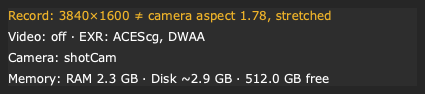
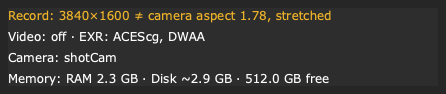
Version picked inside the output line (‹ v003 › in place of the version, quiet grey arrows) instead of next to the name; the name field gets the full row

diff --git a/main.py b/main.py
@@ -181,10 +181,12 @@ class DinoWriter(WidthResizable, RoundedWindow, QWidget):
         self.statusline = widgets.ElidedLabel("")
         self.videoline = widgets.ElidedLabel("")
         self.seqname = widgets.ColorfulLabel()
+        self.seqtail = widgets.ColorfulLabel()  # after the version: never shortened
+        self.seqtail.setSizePolicy(QSizePolicy.Fixed, QSizePolicy.Preferred)
         dino_paint = widgets.HIcon(Icons.get("label_dino_paint.svg",type="Path"),size=50)
         
         # Every info line can be selected and copied (paths, names, sizes)
-        for label in (self.cameraname, self.ramusage, self.statusline, self.videoline, self.seqname):
+        for label in (self.cameraname, self.ramusage, self.statusline, self.videoline, self.seqname, self.seqtail):
             label.setCursor(Qt.IBeamCursor)
             label.setTextInteractionFlags(Qt.TextSelectableByMouse)
         
@@ -196,7 +198,18 @@ class DinoWriter(WidthResizable, RoundedWindow, QWidget):
         self.info_toggle.setFixedWidth(self.info_toggle.fontMetrics().horizontalAdvance("Details ▾") + 18)
         self.info_toggle.setCursor(Qt.PointingHandCursor)
         self.info_toggle.clicked.connect(lambda: self.setInfoExpanded(not self.info_expanded))
-        sequence_layout = widgets.HLayout([self.seqname,dino_paint,self.info_toggle],align=None)
+        # The output name with the version stepper in its place: "Sequence: flipbook.‹v082›.$F4.exr"
+        self.version_choice = None
+        self.versionbox = widgets.VersionBox(color=COLORS_PALLETE["yellow"])
+        self.versionbox.changed.connect(self.stepVersion)
+        name_layout = QHBoxLayout()
+        name_layout.setSpacing(0)
+        for part in (self.seqname, self.versionbox, self.seqtail):
+            name_layout.addWidget(part)
+        sequence_layout = QHBoxLayout()
+        sequence_layout.addLayout(name_layout)
+        sequence_layout.addWidget(dino_paint)
+        sequence_layout.addWidget(self.info_toggle)
 
         # The flipbook name first, then how it's recorded and encoded, camera and memory/disk
         info_layout.addLayout(sequence_layout)
@@ -226,14 +239,8 @@ class DinoWriter(WidthResizable, RoundedWindow, QWidget):
         self.filename.installEventFilter(self)
         self.menu_button = widgets.DropDownButton(menu=folders_list, callback=self.setMenuItemFile)
 
-        # Version: the next free one by default, − / + to pick another (an existing one is overwritten)
-        self.version_choice = None
-        self.versionbox = widgets.VersionBox()
-        self.versionbox.changed.connect(self.stepVersion)
-
         grid_layout.addWidget(label_filename, 0, 0)
-        grid_layout.addWidget(self.filename, 0, 1)
-        grid_layout.addWidget(self.versionbox, 0, 2)
+        grid_layout.addWidget(self.filename, 0, 1, 1, 2)  # the version is picked in the output name below
         grid_layout.addWidget(self.menu_button, 0, 3)
 
         ### SECOND LINE
@@ -685,20 +692,39 @@ class DinoWriter(WidthResizable, RoundedWindow, QWidget):
                     parts.append((prefix, "white"))
                 parts.append((self.videoExt(), "blue"))
                 break
+            if name == "{version}":
+                parts.append((None, "yellow"))  # the version stepper goes here
+                continue
             part = name.format(name=self.filename.text(), version=self.currentVersion(), fileformat=self.fileFormat())
             parts.append((part, "green" if padding else colors.get(name, "white")))
-        final_list = ["Video: " if video else "Sequence: ", COLORS_PALLETE["white"]]
+        stepper_after = not any(part is None for part, _ in parts)
+        if stepper_after:  # no {version} of its own: the stepper after the name
+            parts.append((None, "yellow"))
+        head = ["Video: " if video else "Sequence: ", COLORS_PALLETE["white"]]
+        tail = []
+        target = head
         for index, (part, color) in enumerate(parts):
-            final_list += [part, COLORS_PALLETE[color]]
-            if index < len(parts) - 1:  # no dot after the extension
-                final_list += [".", COLORS_PALLETE["white"]]
-        previous = self.seqname.fullText()
-        self.seqname.update(final_list)
-        self.seqname.setHoverText(self.outputPath())
+            if part is None:
+                target = tail
+            else:
+                target += [part, COLORS_PALLETE[color]]
+            if index < len(parts) - (2 if stepper_after else 1):  # no dot after the extension
+                target += [".", COLORS_PALLETE["white"]]
+        previous = self.sequenceText()
+        self.updateVersion()
+        self.seqname.update(head)
+        self.seqtail.update(tail)
+        self.seqtail.setFixedWidth(self.seqtail.sizeHint().width() if tail else 0)
+        for label in (self.seqname, self.seqtail):
+            label.setHoverText(self.outputPath())
         self.updateFramesLine()
-        if previous and self.seqname.fullText() != previous and self.isVisible():
+        if previous and self.sequenceText() != previous and self.isVisible():
             animation.hop(self.dino_paint)  # new name or version
             animation.refreshText(self.seqname)
+
+    def sequenceText(self) -> str:
+        """The whole output line as shown: caption, name, version, the rest"""
+        return self.seqname.fullText() + self.versionbox.label.text() + self.seqtail.fullText()
 
     def sequencePath(self) -> Path:
         """First frame the flipbook will write ($HIP etc. expanded)"""

diff --git a/gui/widgets.py b/gui/widgets.py
@@ -1,5 +1,6 @@
 from .qt import *  # noqa: F403
 from .animation import AnimatedButton, AnimatedCheckBox, fadeMenus
+from .theme import COLORS
 from .resources import FONT_FILE, STYLESHEETS_FILE, Icons as _Icons, StyleSheet
 from ..core.log import log
 
@@ -291,41 +292,49 @@ class DropDownButton(AnimatedButton, QPushButton):
             action.setToolTip(tooltip or "")
 
 class VersionBox(QWidget):
-    """− v004 +: steps the flipbook version. Signals changed(step) with -1 / +1."""
+    """‹ v004 ›: steps the flipbook version, sits inside the output name of the info line (quiet until needed:
+    grey arrows, the version in the name's yellow). Signals changed(step) with -1 / +1."""
     changed = Signal(int)
-    LABEL_STYLE = ("QLabel { background-color: #131313; color: #eee; border: 1px solid #343434; border-radius: 2px;"
-                   " padding: 3px; }")
+    ARROW_STYLE = ("QPushButton {{ background: transparent; border: none; color: #8a8a8a; padding: 0px;"
+                   " font-weight: bold; }} QPushButton:hover {{ color: #ffffff; background-color: #4a4a4a;"
+                   " border-radius: 3px; }} QPushButton:disabled {{ color: #464646; }}")
+    LABEL_STYLE = "QLabel {{ background: transparent; color: {color}; padding: 0px; }}"
 
-    def __init__(self, font: str = MAIN_FONT, size: int = MAIN_SIZE, parent=None):
+    def __init__(self, font: str = MAIN_FONT, size: int = MAIN_SIZE, color: str = COLORS["yellow"], parent=None):
         super().__init__(parent)
+        self.color = color
         layout = QHBoxLayout(self)
         layout.setContentsMargins(0, 0, 0, 0)
-        layout.setSpacing(3)
-        self.minus = PushButton("−", size=size)
-        self.plus = PushButton("+", size=size)
+        layout.setSpacing(0)
+        self.minus = QPushButton("‹")
+        self.plus = QPushButton("›")
         self.label = QLabel("v001")
         self.label.setFont(QFont(font, size))
         self.label.setAlignment(Qt.AlignCenter)
-        self.label.setStyleSheet(self.LABEL_STYLE)
-        self.label.setMinimumWidth(1)
+        self.label.setStyleSheet(self.LABEL_STYLE.format(color=color))
         for button, step, tip in ((self.minus, -1, "Previous version: write over it"),
                                   (self.plus, 1, "Next version (the next free one is the default)")):
-            button.setFixedSize(QSize(22, 22))
+            button.setFont(QFont(font, size + 5))
+            button.setFixedSize(QSize(13, 20))
+            button.setFocusPolicy(Qt.NoFocus)
+            button.setStyleSheet(self.ARROW_STYLE.format())
             button.setCursor(Qt.PointingHandCursor)
             button.setToolTip(tip)
             button.clicked.connect(lambda checked=False, step=step: self.changed.emit(step))
         layout.addWidget(self.minus)
-        layout.addWidget(self.label, 1)
+        layout.addWidget(self.label)
         layout.addWidget(self.plus)
+        self.setSizePolicy(QSizePolicy.Fixed, QSizePolicy.Fixed)
 
     def show(self, version: str, color: str = "", bold: bool = False, tooltip: str = ""):
-        """Shown version, its color (orange: exists and will be overwritten), bold when chosen by hand"""
+        """Shown version, its color (amber: exists and will be overwritten), bold when chosen by hand"""
         self.label.setText(version)
         font = self.label.font()
         font.setBold(bold)
         self.label.setFont(font)
-        self.label.setStyleSheet(self.LABEL_STYLE + (f"QLabel {{ color: {color}; border-color: {color}; }}" if color else ""))
+        self.label.setStyleSheet(self.LABEL_STYLE.format(color=color or self.color))
         self.label.setToolTip(tooltip)
+        self.label.setFixedWidth(self.label.fontMetrics().horizontalAdvance(version) + 2)
 
 
 class SideImageMenu(QMenu):

diff --git a/tests/test_gui_smoke.py b/tests/test_gui_smoke.py
@@ -186,10 +186,12 @@ def test_long_sequence_name_is_shortened_in_the_middle(houdini):
     window.updateColorfulLabel()
     window.layout().activate()
     shown = window.seqname.text()
-    assert "…" in shown and "v001" in shown and "$F4" in shown, "version, frames, extension stay visible"
-    assert window.seqname.toolTip().endswith(".exr") and window.seqname.fullText().endswith(".exr")
-    assert not window.seqname.fullText().endswith("."), "no dot after the extension"
-    assert window.seqname.geometry().right() < window.dino_paint.geometry().left()
+    assert "…" in shown, "the name is shortened"
+    assert window.seqtail.fullText() == ".$F4.exr" and window.versionbox.label.text() == "v001", \
+        "version, frames, extension stay visible"
+    assert window.seqname.toolTip().endswith(".exr") and window.sequenceText().endswith(".exr")
+    assert not window.sequenceText().endswith("."), "no dot after the extension"
+    assert window.seqtail.geometry().right() < window.dino_paint.geometry().left()
     assert window.dino_paint.geometry().right() < window.info_toggle.geometry().left()
     window.close()
 
@@ -292,7 +294,7 @@ def test_version_steps_and_warns_about_overwriting(houdini, hou, monkeypatch, tm
     window.versionbox.minus.click()
     assert window.versionbox.label.text() == "v002" and window.collectData()["version"] == "v002"
     assert "v002 exists (1 file): will be overwritten" in window.statusline.text()
-    assert "v002" in window.seqname.fullText()
+    assert "v002" in window.sequenceText()
     window.versionbox.plus.click()
     assert window.collectData()["version"] == "", "back at the next free one: automatic"
     window.versionbox.minus.click()
@@ -324,11 +326,11 @@ def test_video_on_shows_the_video_and_its_frames_in_grey(houdini, hou, monkeypat
     window.filename.setText("shot")
     window.convertvideo.setChecked(True)
     window.fileformat.setCurrentIndex(window.fileformat.findData("mp4"))
-    assert window.seqname.fullText() == "Video: shot.v001.mp4"
+    assert window.sequenceText() == "Video: shot.v001.mp4"
     assert window.seqname.toolTip().endswith((tmp_path / "preview/shot/v001/shot.v001.mp4").resolve().as_posix())
     assert not window.framesline.isHidden() and window.framesline.text().startswith("Frames: shot.v001.$F4.exr")
     window.convertvideo.setChecked(False)
-    assert window.seqname.fullText().startswith("Sequence: shot.v001.$F4.") and window.framesline.isHidden()
+    assert window.sequenceText().startswith("Sequence: shot.v001.$F4.") and window.framesline.isHidden()
     window.close()
 
 
@@ -357,3 +359,18 @@ def test_window_width_drags_from_the_edge_and_is_remembered(houdini):
     reopened.setWidthClamped(10)
     assert reopened.width() == main.WINDOW_WIDTH, "never narrower than the default"
     reopened.close()
+
+
+def test_version_is_picked_inside_the_output_name(houdini):
+    import DinoWrite
+
+    window = DinoWrite.show({})
+    window.filename.setText("shot")
+    window.updateColorfulLabel()
+    assert window.seqname.fullText() == "Sequence: shot."
+    assert window.versionbox.label.text() == "v001" and window.seqtail.fullText().startswith(".$F4.")
+    assert window.filename.parentWidget() is not window.versionbox.parentWidget(), "not next to the name field"
+    window.paths["fb_name"] = "{name}_{version}.$F4.{fileformat}"  # version inside a part: stepper at the end
+    window.updateColorfulLabel()
+    assert window.seqtail.fullText() == "" and not window.seqname.fullText().endswith(".")
+    window.close()

diff --git a/README.md b/README.md
@@ -9,8 +9,9 @@ Write flipbooks to disk easily. A pure Python tool for Houdini.
 
 ## Features
 ---
- - Folders are automatically versioned (`v001`, `v002`, ...); `−` / `+` next to the name pick another version: an
-   existing one turns orange with a warning and is overwritten after a confirmation (its old frames and video go first)
+ - Folders are automatically versioned (`v001`, `v002`, ...); the grey `‹` / `›` around the version in the output
+   line (`Sequence: shot.‹v003›.$F4.exr`) pick another one: an existing one turns amber with a warning and is
+   overwritten after a confirmation (its old frames and video go first)
  - True resolution: a 4K flipbook on a 2K monitor is recorded in a torn off copy of the viewer sized to 4K (bigger than the screen) instead of stretching the viewport
  - Checkboxes: the icon is the tick box, green when on, red when off
  - Convert the sequence to video in the background with ffmpeg that ships with Houdini: Houdini stays usable, a small window shows progress and can cancel
